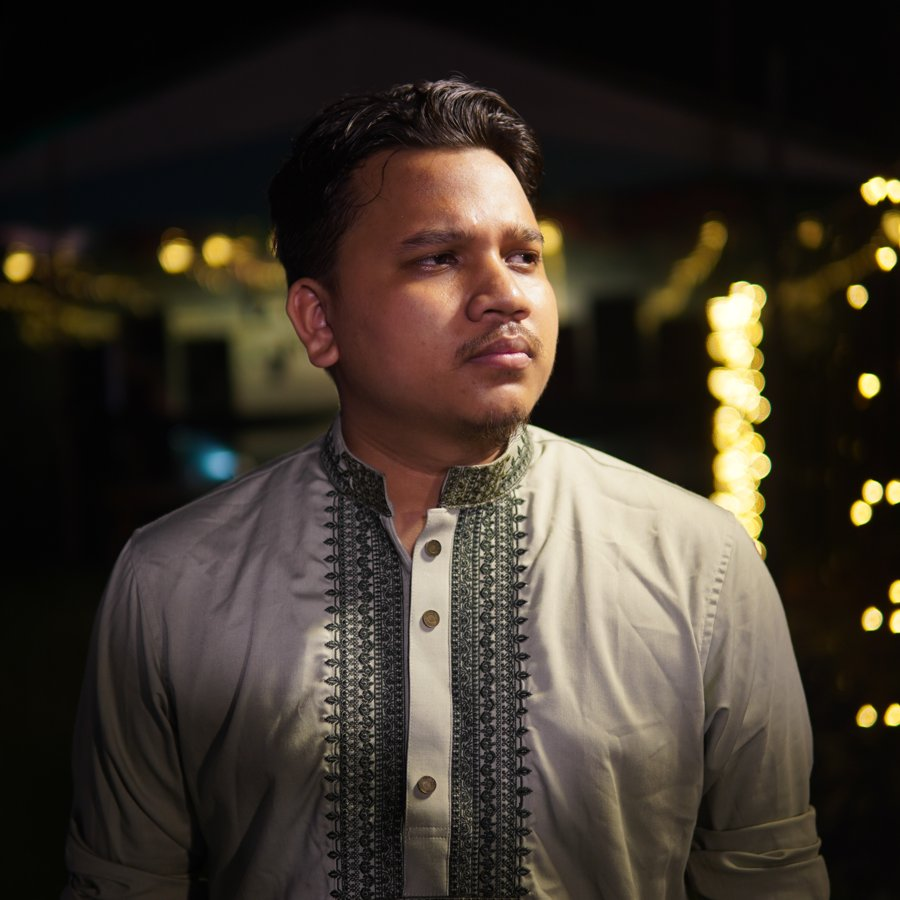
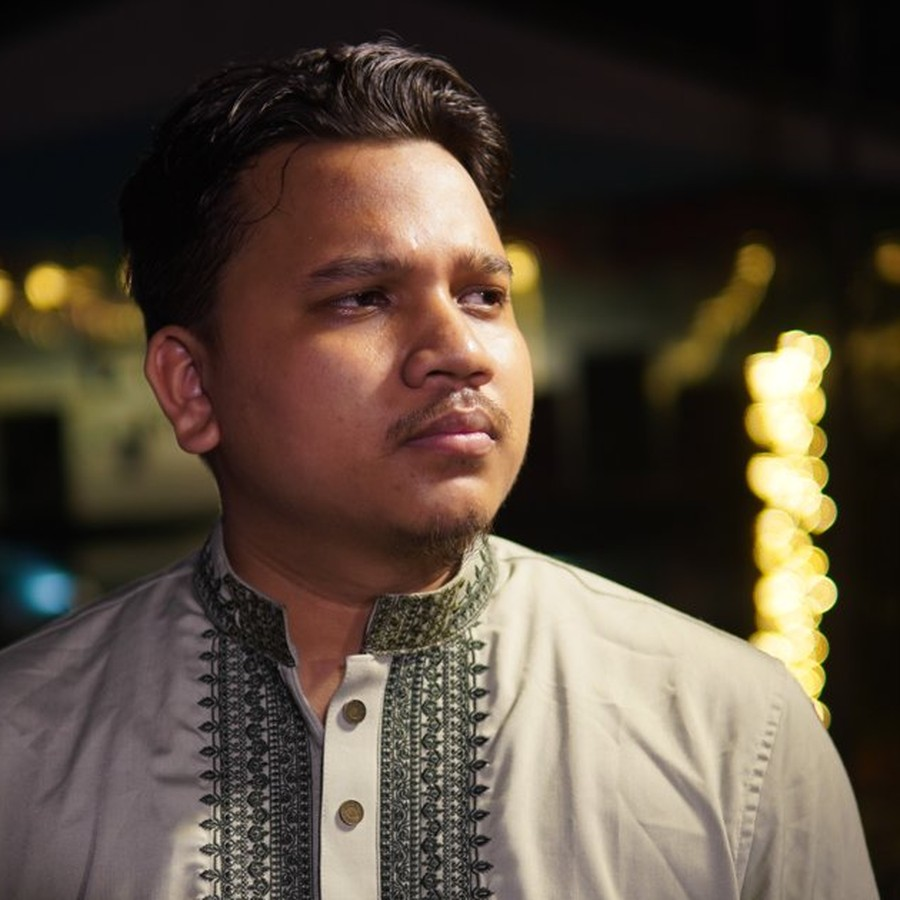
fix: update terminology from "Students & CR" to "Active Students" for consistency across the application

diff --git a/src/pages/LandingPage.jsx b/src/pages/LandingPage.jsx
@@ -1674,7 +1674,7 @@ const FEATURE_SUBDETAIL = {
     items: [
       { nameBn: 'Syllabus', descBn: 'ডিপার্টমেন্টের নির্ধারিত সিলেবাস' },
       { nameBn: 'Question Bank', descBn: 'ওই কোর্স ও টার্মের রিয়েল আগের প্রশ্নপত্র' },
-      { nameBn: 'Students & CR', descBn: 'রোল অনুসারে ক্লাসমেট লিস্ট — কে ভেরিফায়েড, কে CR/ACR তা দেখা যায় (এখান থেকে অ্যাপয়েন্ট/ভেরিফাই করা যায় না, সেটা CL/CR-এর কাজ)' },
+      { nameBn: 'Active Students', descBn: 'রোল অনুসারে ক্লাসমেট লিস্ট — কে ভেরিফায়েড, কে CR/ACR তা দেখা যায় (এখান থেকে অ্যাপয়েন্ট/ভেরিফাই করা যায় না, সেটা CL/CR-এর কাজ)' },
       { nameBn: 'Marks', descBn: 'নিজের কম্পোনেন্ট (CT ইত্যাদি) সেটআপ করে মার্কস এন্ট্রি, PDF এক্সপোর্ট' },
       { nameBn: 'Attendance', descBn: 'Present/Absent/Late/Excused, প্রতিদিনের সেশন লগ, Excel/PDF এক্সপোর্ট' },
       { nameBn: 'Schedule', descBn: 'দিন/সময় স্লট, কনফ্লিক্ট-চেক সহ' },
@@ -1863,7 +1863,7 @@ function FeatureCategoryBlock({ label, items, isMobileNav }) {
         listStyle: 'none', margin: 0, padding: 0,
         display: 'grid',
         gridTemplateColumns: 'repeat(2, minmax(0, 1fr))',
-        gridAutoRows: isMobileNav ? '1fr' : 'auto',
+        gridAutoRows: 'auto',
         gap: isMobileNav ? '0.15rem 0.6rem' : '0.1rem 1rem',
         alignItems: 'stretch',
       }}>
@@ -2933,15 +2933,18 @@ function CreditsSpotlight({ isMobileNav }) {
                     onError={() => setImgOk(false)}
                     style={{
                       width: '100%', height: '100%', objectFit: 'cover',
-                      // Owner audit: 'center' vertical crop was cutting off
-                      // the top of the head on solo portraits — the photo box
-                      // is a 1.25:1 landscape-ish rectangle but a portrait's
-                      // face sits in the UPPER portion of a square/tall
-                      // source photo, so a dead-center crop chops the
-                      // forehead/hair. Bias the crop upward for portraits
-                      // (photoShape !== 'wide'); group photos keep a true
-                      // center crop since there's no single face to protect.
-                      objectPosition: person.photoShape === 'wide' ? 'center' : 'center 20%',
+                      // Owner audit (this session): the founder photo itself
+                      // was recropped at the source (public/landing/credits/
+                      // founder.jpg) to actually center the face inside its
+                      // 900x900 square, since object-position can't do
+                      // anything when source and target are already the same
+                      // aspect ratio — the circular frame was clipping into
+                      // hair/shoulders at the top/side corners regardless of
+                      // any object-position value tried here. Plain 'center'
+                      // is correct now that the source itself is centered.
+                      // Group photos keep a true center crop too since
+                      // there's no single face to protect.
+                      objectPosition: 'center',
                       display: 'block',
                     }}
                   />
@@ -3000,21 +3003,39 @@ function Footer({ theme = 'light' }) {
       borderTop: dark ? '1px solid rgba(255,255,255,0.1)' : '1px solid var(--border)',
       marginTop: dark ? 0 : '1.25rem',
       background: dark ? 'transparent' : 'var(--bg)',
-      padding: dark ? '1.1rem 1.25rem 1.4rem' : '1.1rem 1.25rem 1.4rem',
+      padding: dark ? '0.9rem 1.25rem 1.1rem' : '1.1rem 1.25rem 1.4rem',
     }}>
       <div style={{
         maxWidth: '1080px', margin: '0 auto', display: 'flex',
         flexDirection: 'column', alignItems: 'center', gap: '0.6rem', textAlign: 'center',
       }}>
-        <Wordmark height={18} theme={dark ? 'dark' : 'kx'} />
+        {/* Wordmark dropped here when dark (the CTA section right above
+            this Footer already shows the full mascot+"KUETx" wordmark
+            once — repeating it a few dozen px lower just doubled the
+            same brand mark in one continuous band). Light-theme usage
+            elsewhere (App.jsx chrome, mobile branch) is untouched and
+            still shows it, since those places don't already have one
+            nearby. */}
+        {!dark && <Wordmark height={18} theme="kx" />}
 
         {/* Owner ask: drop Privacy Policy from the footer link row and
             compress it into ONE row with About KUETx + the two contact
             buttons — was 3 separate rows (links / email+WhatsApp /
             copyright), now 2 (one combined action row / copyright),
-            so the whole footer takes noticeably less vertical space. */}
+            so the whole footer takes noticeably less vertical space.
+            About KUETx now matches the same pill-button treatment as
+            the email/WhatsApp links instead of being a plain text link,
+            so all three read as one consistent row of actions. */}
         <div style={{ display: 'flex', flexWrap: 'wrap', justifyContent: 'center', alignItems: 'center', gap: '0.5rem' }}>
-          <Link to="/about" style={{ fontSize: '0.78rem', fontWeight: 700, color: dark ? '#f3f4ef' : 'var(--text)', textDecoration: 'none', padding: '0.4rem 0.2rem' }}>
+          <Link
+            to="/about"
+            style={{
+              display: 'inline-flex', alignItems: 'center', gap: '0.35rem',
+              padding: '0.4rem 0.75rem', borderRadius: '999px', fontSize: '0.75rem', fontWeight: 700,
+              border: dark ? '1px solid rgba(255,255,255,0.18)' : '1px solid var(--border)',
+              color: dark ? '#f3f4ef' : 'var(--text)', textDecoration: 'none',
+            }}
+          >
             About KUETx
           </Link>
           <a
@@ -3432,7 +3453,7 @@ export default function LandingPage() {
             the dark hero, not cramped. */}
         <section style={{
           background: 'var(--kx-dark)', color: '#fff', textAlign: 'center',
-          padding: isMobileNav ? '2rem 1.1rem 0' : '56px 32px 0',
+          padding: isMobileNav ? '1.5rem 1.1rem 0' : '40px 32px 0',
           position: 'relative', overflow: 'hidden',
         }}>
           <div style={{
@@ -3441,10 +3462,15 @@ export default function LandingPage() {
           }} />
           {/* Hard color-band cut by design — no seam gradient here. */}
           <div style={{ position: 'relative' }}>
+            {/* Full wordmark (mascot + "KUETx" text) here instead of the
+                icon-only Logo — this is the section's one brand mark now;
+                Footer below no longer repeats it (see Footer, theme="dark"
+                usage), so it only appears once in this whole band instead
+                of twice. */}
             <div style={{
-              margin: '0 auto 14px', display: 'flex', alignItems: 'center', justifyContent: 'center',
+              margin: '0 auto 12px', display: 'flex', alignItems: 'center', justifyContent: 'center',
             }}>
-              <Logo size={isMobileNav ? 44 : 58} />
+              <Wordmark height={isMobileNav ? 32 : 40} theme="dark" />
             </div>
             <h2 className="kx-h2" style={{ fontSize: isMobileNav ? 'clamp(1.15rem, 5.5vw, 1.4rem)' : '30px', color: '#fff' }}>
               তোমার ক্যাম্পাস লাইফ, আজকেই সাজাও।
@@ -3452,7 +3478,7 @@ export default function LandingPage() {
             <p style={{ color: 'rgba(243,244,239,0.65)', maxWidth: '460px', margin: '10px auto 20px', fontSize: isMobileNav ? '0.82rem' : undefined }}>
               Sign up করতে কোনো টাকা লাগে না, ভবিষ্যতেও লাগবে না।
             </p>
-            <div style={{ display: 'flex', gap: '10px', justifyContent: 'center', flexWrap: 'wrap', marginBottom: isMobileNav ? '1.5rem' : '2.25rem' }}>
+            <div style={{ display: 'flex', gap: '10px', justifyContent: 'center', flexWrap: 'wrap', marginBottom: isMobileNav ? '1.1rem' : '1.6rem' }}>
               <button
                 type="button"
                 onClick={() => openAuth('signup')}

diff --git a/index.html b/index.html
@@ -107,29 +107,23 @@
         pointer-events: none;
       }
 
-      /* Entrance matches the landing-page hero's own reveal pattern
-         (fade + rise from translateY, see CampusHero in LandingPage.jsx)
-         so the splash feels like the same visual language as the app
-         itself, not a separate effect. After settling, the mascot gets
-         a slow, gentle bounce — the exact kx-mascot-bounce keyframe
-         already used on the landing page's mascot badge — instead of
-         any spin/flip, so it reads as "alive and waiting" rather than
-         a card trick. */
+      /* Reveal: mascot starts lower and slightly blurred, rises up
+         while sharpening into full clarity — no rotation, nothing to
+         half-notice mid-motion, just a clean "coming into focus" arrival
+         that ends with the mascot fully sharp and completely still. */
       #kx-logoWrap {
         opacity: 0;
-        transform: translateY(14px);
-        transition: opacity 0.5s cubic-bezier(.16,.8,.3,1), transform 0.5s cubic-bezier(.16,.8,.3,1);
+        transform: translateY(34px);
+        filter: blur(9px);
+        transition:
+          opacity 1.5s cubic-bezier(.16,.8,.3,1),
+          transform 1.5s cubic-bezier(.16,.8,.3,1),
+          filter 1.5s cubic-bezier(.16,.8,.3,1);
       }
       #kx-logoWrap.kx-show {
         opacity: 1;
         transform: translateY(0);
-      }
-      #kx-logoWrap.kx-bounce img {
-        animation: kx-mascot-bounce 2.6s ease-in-out infinite;
-      }
-      @keyframes kx-mascot-bounce {
-        0%, 100% { transform: translateY(0); }
-        50% { transform: translateY(-7px); }
+        filter: blur(0);
       }
 
       #kx-logoWrap img {
@@ -158,6 +152,15 @@
         display: flex; align-items: baseline; justify-content: center;
         font-family: system-ui,-apple-system,Segoe UI,Roboto,Arial;
       }
+      @media screen and (min-width: 641px) {
+        #kx-wordmark { margin-top: 26px; }
+      }
+      @media screen and (min-width: 1024px) {
+        #kx-wordmark { margin-top: 30px; }
+      }
+      @media screen and (min-width: 1600px) {
+        #kx-wordmark { margin-top: 34px; }
+      }
       #kx-wordmark.kx-show {
         opacity: 1;
         transform: translateY(0);
@@ -166,7 +169,12 @@
          Wordmark component (src/components/Logo.jsx): bold "KUET" in
          the base ink color, lowercase "x" picked out in the brand
          accent green. Sized relative to the mascot at each breakpoint
-         (roughly 8% of the logo's width) instead of a fixed px value,
+         (~9% of the logo's width, kept CONSTANT across breakpoints —
+         a previous pass here scaled font-size and icon-size off two
+         separate, uncoordinated numbers, so the ratio quietly drifted
+         from ~9.1% on mobile down to ~8.1% on desktop and the wordmark
+         looked undersized next to a 420px mascot; these four values are
+         each icon-width × 0.092, rounded) instead of a fixed px value,
          so it scales up alongside the logo on larger screens instead of
          looking tiny next to a 420px mascot on desktop. Kept in system
          fonts (no 'Sora' import) to match this file's offline-first,
@@ -181,13 +189,13 @@
         color: #16a34a;
       }
       @media screen and (min-width: 641px) {
-        #kx-wordmark .kx-word { font-size: 26px; }
+        #kx-wordmark .kx-word { font-size: 28px; }
       }
       @media screen and (min-width: 1024px) {
-        #kx-wordmark .kx-word { font-size: 30px; }
+        #kx-wordmark .kx-word { font-size: 33px; }
       }
       @media screen and (min-width: 1600px) {
-        #kx-wordmark .kx-word { font-size: 34px; }
+        #kx-wordmark .kx-word { font-size: 39px; }
       }
       #kx-wordmark .kx-dots {
         display: inline-flex;
@@ -201,13 +209,13 @@
         animation: kx-dot-pulse 1.2s ease-in-out infinite;
       }
       @media screen and (min-width: 641px) {
-        #kx-wordmark .kx-dots span { font-size: 26px; }
+        #kx-wordmark .kx-dots span { font-size: 28px; }
       }
       @media screen and (min-width: 1024px) {
-        #kx-wordmark .kx-dots span { font-size: 30px; }
+        #kx-wordmark .kx-dots span { font-size: 33px; }
       }
       @media screen and (min-width: 1600px) {
-        #kx-wordmark .kx-dots span { font-size: 34px; }
+        #kx-wordmark .kx-dots span { font-size: 39px; }
       }
       #kx-wordmark .kx-dots span:nth-child(1) { animation-delay: 0s; }
       #kx-wordmark .kx-dots span:nth-child(2) { animation-delay: 0.25s; }
@@ -220,12 +228,11 @@
         100% { opacity: 0; }
       }
 
-      /* Static fallback: prefers-reduced-motion skips the fade, the
-         bounce, and the dot animation — mascot and wordmark are simply
-         visible immediately, fully still. */
+      /* Static fallback: prefers-reduced-motion skips the fade/rise/
+         blur reveal and the dot animation — mascot and wordmark are
+         simply visible immediately, fully still and already sharp. */
       @media (prefers-reduced-motion: reduce) {
-        #kx-logoWrap { transition-duration: 0.01ms !important; transform: translateY(0) !important; }
-        #kx-logoWrap img { animation: none !important; }
+        #kx-logoWrap { transition-duration: 0.01ms !important; transform: translateY(0) !important; filter: blur(0) !important; }
         #kx-wordmark { transition-duration: 0.01ms !important; transform: translateY(0) !important; }
         #kx-wordmark .kx-dots span { animation: none !important; opacity: 1 !important; }
       }
@@ -419,20 +426,21 @@
           return;
         }
 
-        // Timeline (~5s total): mascot fades/rises in exactly like the
-        // landing-page hero's own reveal (see CampusHero — same
-        // translateY + cubic-bezier easing), wordmark + loading dots
-        // follow right after, then the mascot settles into the same
-        // gentle bounce already used on the landing page's mascot badge
-        // for the rest of the hold — no flip, no rotation, just a calm
-        // "alive" idle motion — before the splash fades out. Total is
-        // intentionally longer than the old ~1.3s minimal version per
-        // explicit request, capped at 5s so it never reads as stuck.
+        // Timeline (~3.5s total): mascot rises from slightly below and
+        // sharpens from a soft blur into full clarity over 1.5s — a
+        // clean "coming into focus" reveal, nothing to half-see mid-
+        // motion, no rotation. Wordmark + loading dots follow shortly
+        // after. Once sharp, the mascot just holds still and fully
+        // visible for the remainder before fading out — total kept
+        // short deliberately (Apple HIG / Android Splash Screen API
+        // both target roughly 500–1500ms; this runs a bit longer so the
+        // reveal itself reads clearly, but stays well short of feeling
+        // stuck) — especially since installed-PWA users see this on
+        // every cold launch, not just once ever.
         var ENTER_DELAY = 30;
-        var WORDMARK_DELAY = 350;
-        var BOUNCE_START = 700;   // once the entrance settles
-        var FADE_START = 4600;    // when the whole splash starts fading out
-        var TOTAL_DURATION = 5000;
+        var WORDMARK_DELAY = 500;
+        var FADE_START = 3100;
+        var TOTAL_DURATION = 3500;
 
         requestAnimationFrame(function () {
           setTimeout(function () {
@@ -442,10 +450,6 @@
           setTimeout(function () {
             wordmark.classList.add('kx-show');
           }, WORDMARK_DELAY);
-
-          setTimeout(function () {
-            logoWrap.classList.add('kx-bounce');
-          }, BOUNCE_START);
 
           setTimeout(function () {
             el.style.opacity = 0;

diff --git a/src/data/guideContent.js b/src/data/guideContent.js
@@ -858,16 +858,16 @@ const RAW_SECTIONS = [
     num: "42", id: "faculty-class-detail", route: "/faculty/classes/:assignmentId", icon: "FileText", catIdx: CAT.FACULTY,
     titleBn: "ক্লাস ডিটেইল",
     titleEn: "Class Detail",
-    descBn: "একটি নির্দিষ্ট class assignment-এর Students & CR, Syllabus আর Schedule ট্যাব দেখুন।",
-    descEn: "Open one class assignment to see the Students & CR, Syllabus, and Schedule tabs.",
+    descBn: "একটি নির্দিষ্ট class assignment-এর Active Students, Syllabus আর Schedule ট্যাব দেখুন।",
+    descEn: "Open one class assignment to see the Active Students, Syllabus, and Schedule tabs.",
     blocksBn: [
       { type: 'text', text: 'এই পেজে একেকটি ক্লাসের ভেতরের তথ্য দেখা যায়। এখনকার built অংশগুলো read-only, আর ভবিষ্যতের ট্যাবগুলো visibly disabled রাখা হয়েছে, যাতে ধাপে ধাপে অগ্রগতি পরিষ্কার থাকে।' },
-      { type: 'bullet', text: 'Students & CR, Syllabus, এবং Schedule ট্যাব live আছে' },
+      { type: 'bullet', text: 'Active Students, Syllabus, এবং Schedule ট্যাব live আছে' },
       { type: 'bullet', text: 'Attendance, Marks, Notices, আর session-related ট্যাবগুলো এখনো future phase' },
     ],
     blocksEn: [
       { type: 'text', text: 'This page shows the inside of one class assignment. The built tabs are read-only for now, and later-phase tabs stay visibly disabled so the rollout stays honest.' },
-      { type: 'bullet', text: 'Students & CR, Syllabus, and Schedule are live tabs' },
+      { type: 'bullet', text: 'Active Students, Syllabus, and Schedule are live tabs' },
       { type: 'bullet', text: 'Attendance, Marks, Notices, and session-related tabs are still future phase work' },
     ],
   },

diff --git a/src/pages/faculty/FacultyClassDetail.jsx b/src/pages/faculty/FacultyClassDetail.jsx
@@ -95,7 +95,7 @@ import { useQuestionBankData, getR2FileUrl } from '../../hooks/useQuestionBankDa
 const TABS = [
   { id: 'syllabus', label: 'Syllabus', icon: 'BookMarked', enabled: true },
   { id: 'qbank', label: 'Question Bank', icon: 'FileText', enabled: true },
-  { id: 'students', label: 'Students & CR', icon: 'Users', enabled: true },
+  { id: 'students', label: 'Active Students', icon: 'Users', enabled: true },
   { id: 'marks', label: 'Marks', icon: 'GraduationCap', enabled: true },
   { id: 'attendance', label: 'Attendance', icon: 'CheckSquare', enabled: true },
   { id: 'schedule', label: 'Schedule', icon: 'Clock', enabled: true },
